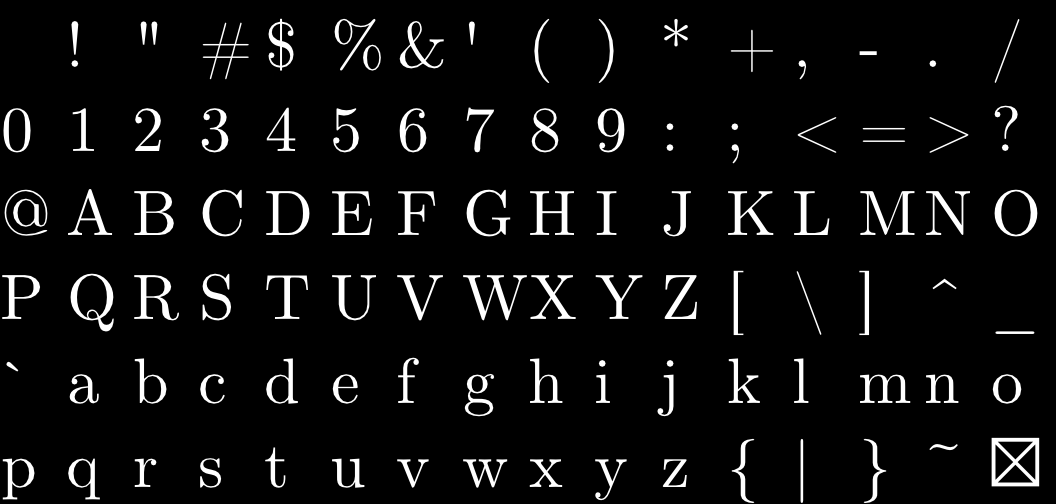
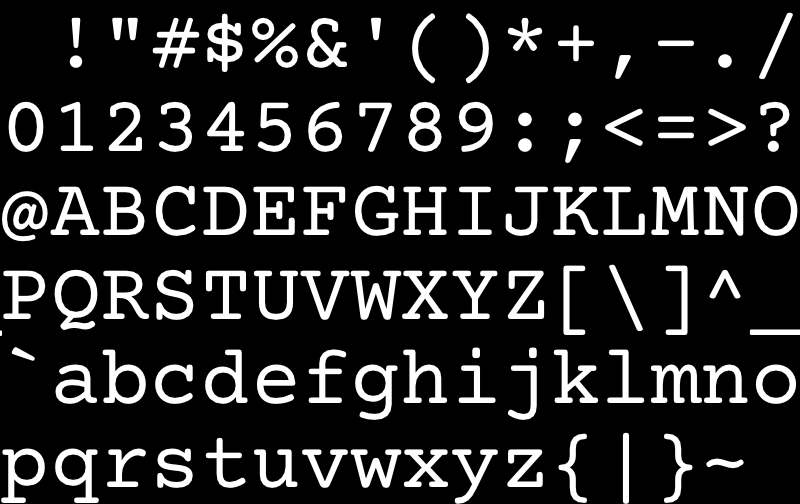
more fonts: what it takes to change the one font -- we will need to have automate this to integrate multiple fonts

diff --git a/graphics/atlas.h b/graphics/atlas.h
@@ -178,7 +178,8 @@ FontAtlas *SetFontAndSize(FontSize font_size) {
 
     char buff[8];
     sprintf(buff, "%.2u", sz_px);
-    Str key_name = StrCat(StrL("cmunrm_"), StrL(buff));
+    //Str key_name = StrCat(StrL("cmunrm_"), StrL(buff));
+    Str key_name = StrCat(StrL("courierprime_"), StrL(buff));
     u64 key = HashStringValue(StrZeroTerm(key_name));
     u64 val = MapGet(&g_font_map, key);
     g_text_plotter = (FontAtlas*) val;

diff --git a/graphics/atlasgen/main_atlasgen.cpp b/graphics/atlasgen/main_atlasgen.cpp
@@ -161,7 +161,8 @@ int main (int argc, char **argv) {
     
     InitBaselayer();
 
-    const char *font_filename = "fonts/cmunrm.ttf";
+    //const char *font_filename = "fonts/cmunrm.ttf";
+    const char *font_filename = "fonts/courierprime.ttf";
     Str name = StrBasename( (char*) font_filename);
     StrPrint("", name, "\n");
     //char *font_filename = CLAGetFirstArg(argc, argv);
